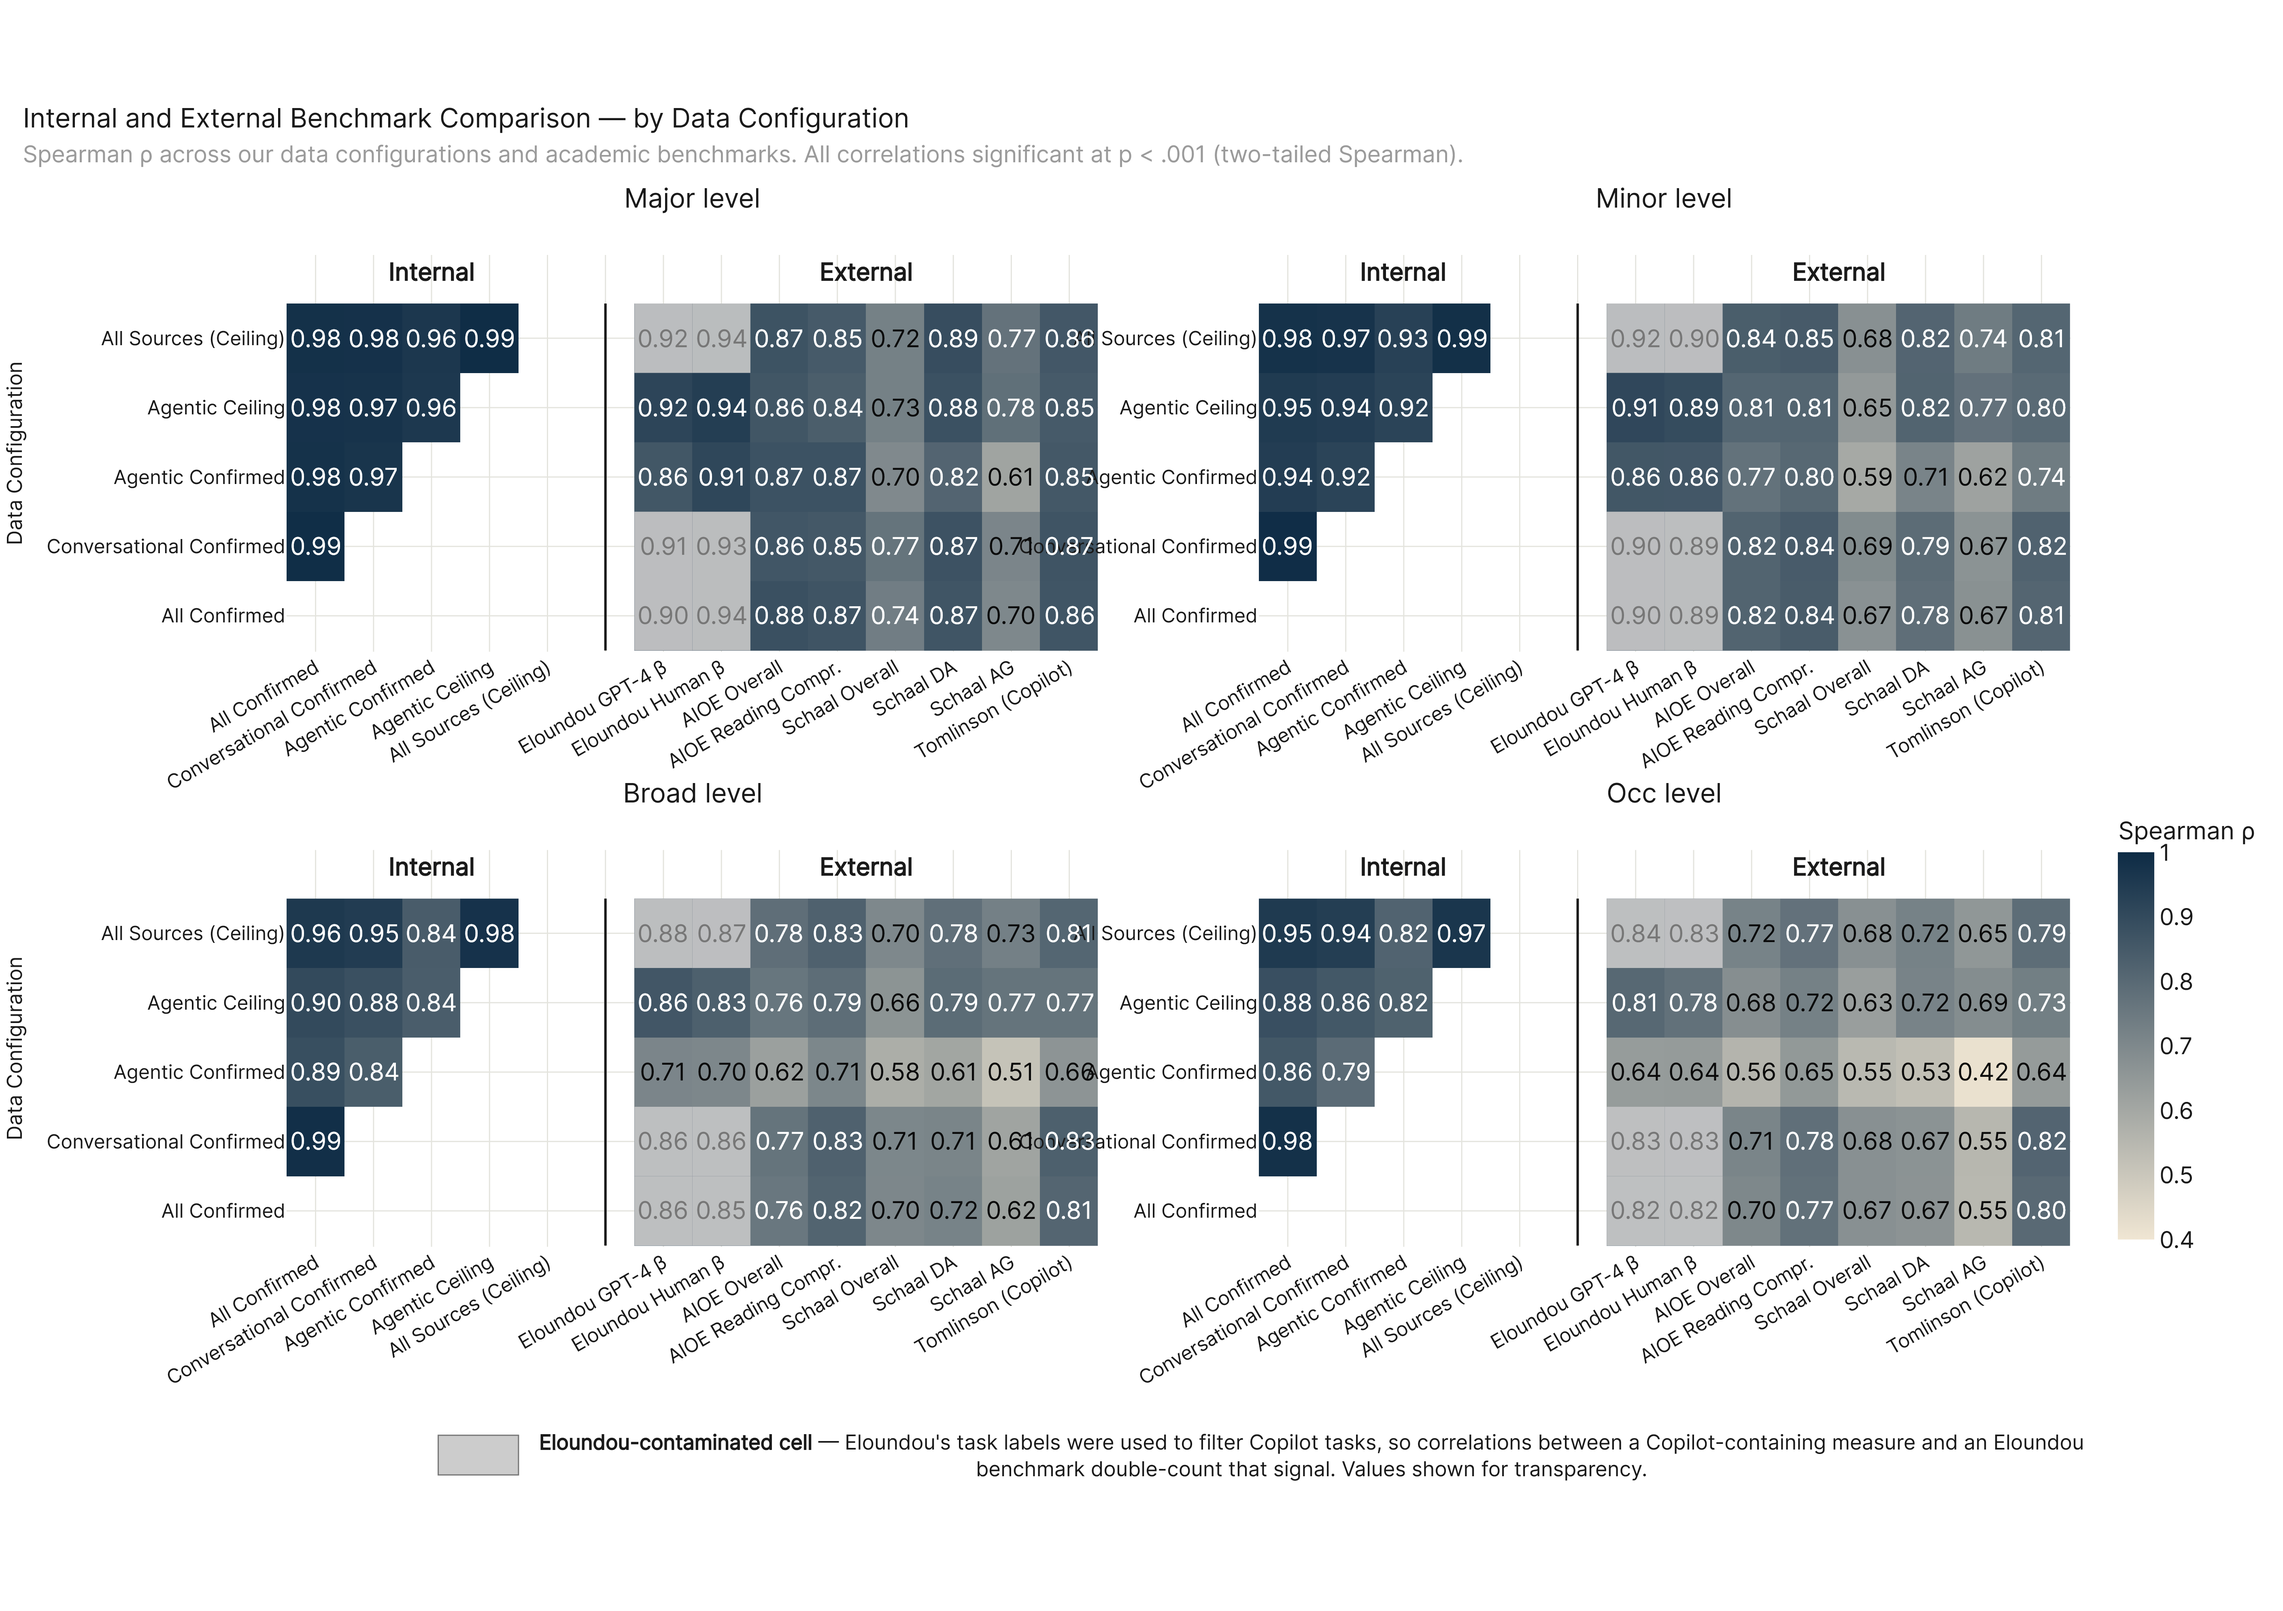
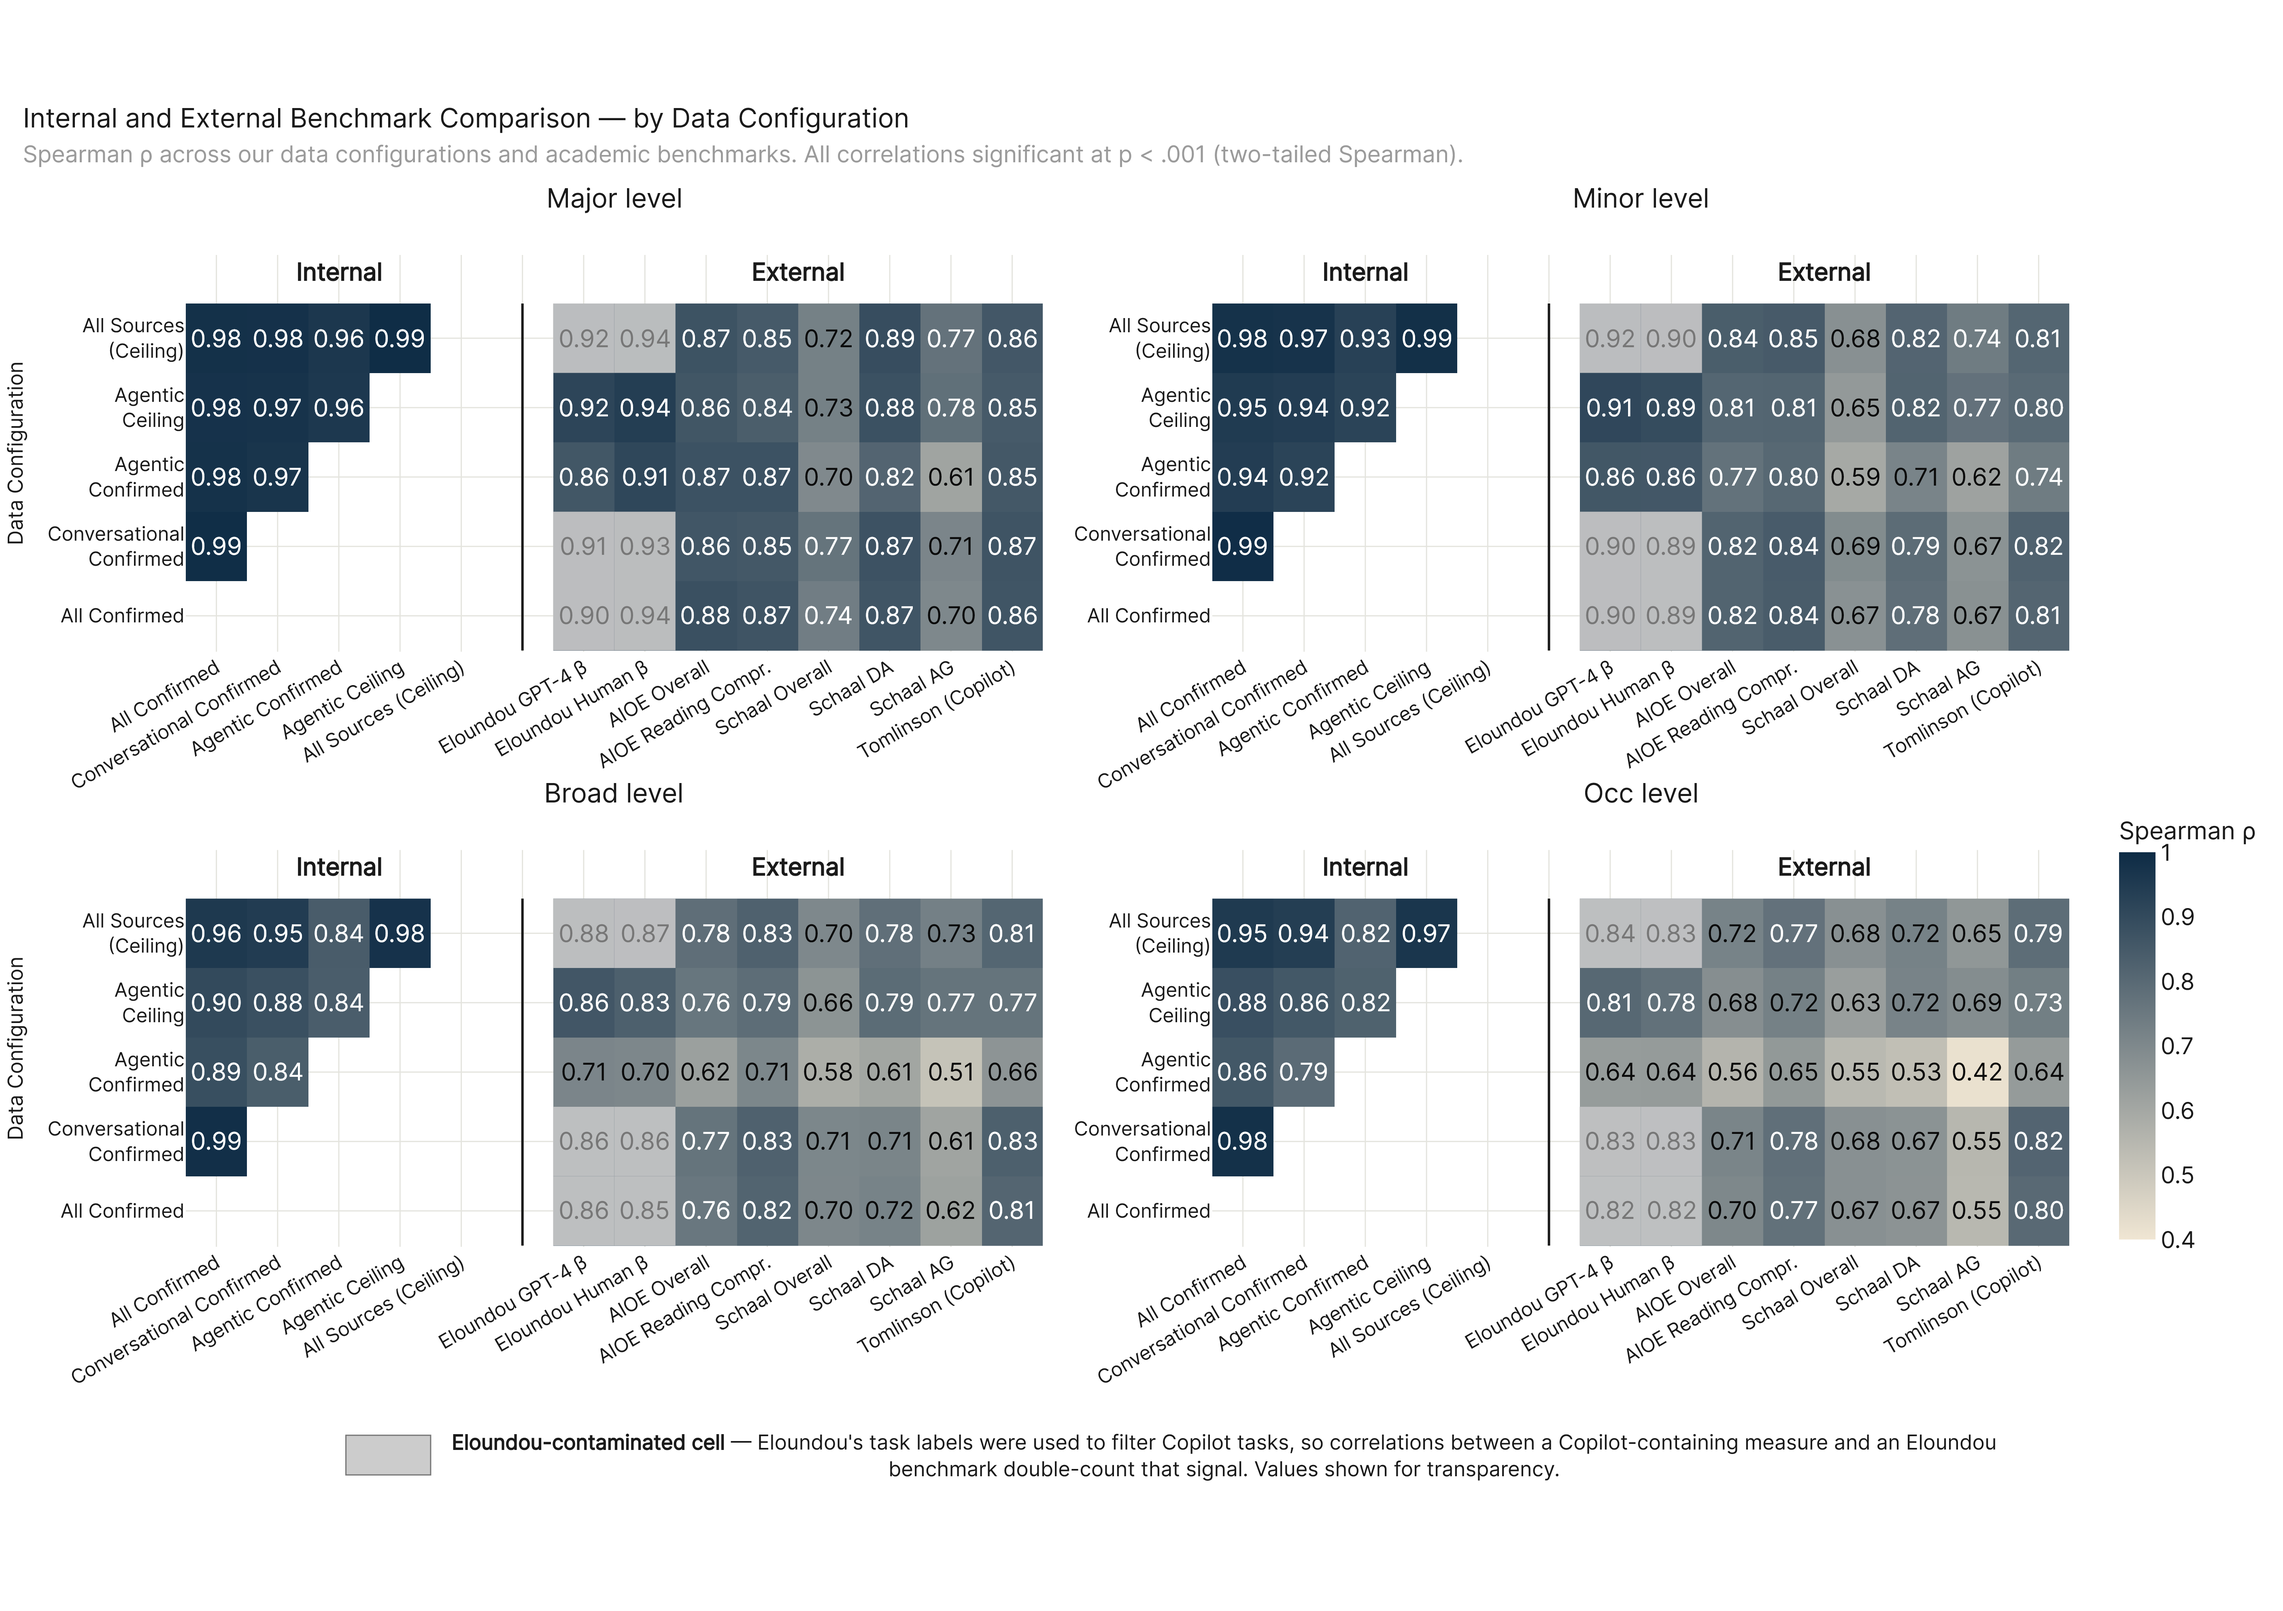
paper(part_1): wrap long config labels onto two lines on convergence y-axis
- Add TICK_LABEL_WRAPS dict mapping the four longest config labels to <br>-wrapped two-line versions.
- Apply the wrap to the heatmap's y category labels (and matching cell-annotation y positions) so the y-axis reads cleanly without truncation. X-axis stays single-line: wrapping rotated -30deg labels makes adjacent labels' second lines collide.
- Contamination check + CSV records still key off the original unwrapped labels.

diff --git a/analysis/paper/results/part_1/run.py b/analysis/paper/results/part_1/run.py
@@ -96,6 +96,21 @@ CONTAMINATED_CONFIG_ROWS: set[str] = {
     "All Confirmed", "All Sources (Ceiling)", "Conversational Confirmed",
 }
 
+# Long category labels get wrapped onto two lines for axis tick display
+# (tick text only — the underlying category keys stay unchanged so cell
+# annotations and contamination checks continue to match against the
+# original strings).
+TICK_LABEL_WRAPS: dict[str, str] = {
+    "Conversational Confirmed": "Conversational<br>Confirmed",
+    "All Sources (Ceiling)":    "All Sources<br>(Ceiling)",
+    "Agentic Confirmed":        "Agentic<br>Confirmed",
+    "Agentic Ceiling":          "Agentic<br>Ceiling",
+}
+
+
+def _wrap_tick_labels(labels: list[str]) -> list[str]:
+    return [TICK_LABEL_WRAPS.get(lbl, lbl) for lbl in labels]
+
 GPTS_CSV = ANALYSIS_DIR / "data" / "gpts_are_gpts_occ_data.csv"
 AIOE_MATRIX_PATH = ANALYSIS_DIR / "data" / "aioe_ability_matrix.csv"
 ABILITIES_PATH = ANALYSIS_DIR / "data" / "abilities_v30.1.csv"
@@ -479,6 +494,15 @@ def _build_convergence_chart(
     n_cols = len(x_labels)
     EXT_OFFSET = n + 1   # column index where external block starts
 
+    # Display copies — wrap long category names onto two lines (<br>) on
+    # the y-axis only. (Wrapping x-axis labels makes adjacent labels'
+    # second lines collide once they're rotated -30°, so the x-axis keeps
+    # the original single-line labels.) Cell annotations and contamination
+    # checks key off the originals; plotly uses the display labels for
+    # axis ticks.
+    x_labels_disp = list(x_labels)
+    rows_labels_disp = _wrap_tick_labels(rows_labels)
+
     corr_records: list[dict] = []
     matrices: dict[str, np.ndarray] = {}
     pmatrices: dict[str, np.ndarray] = {}
@@ -563,8 +587,8 @@ def _build_convergence_chart(
         fig.add_trace(
             go.Heatmap(
                 z=mat.tolist(),
-                x=x_labels,
-                y=rows_labels,
+                x=x_labels_disp,
+                y=rows_labels_disp,
                 colorscale=[[0, HEATMAP_LOW], [1, HEATMAP_HIGH]],
                 zmin=z_min, zmax=z_max,
                 showscale=(idx == 3),
@@ -613,7 +637,7 @@ def _build_convergence_chart(
                     txt_color = "white" if norm >= 0.55 else PAPER_PALETTE["text_dark"]
 
                 fig.add_annotation(
-                    x=x_labels[j], y=rows_labels[i],
+                    x=x_labels_disp[j], y=rows_labels_disp[i],
                     text=f"{val:.2f}",
                     showarrow=False,
                     font=dict(size=cell_fs, family=FONT_FAMILY, color=txt_color),
